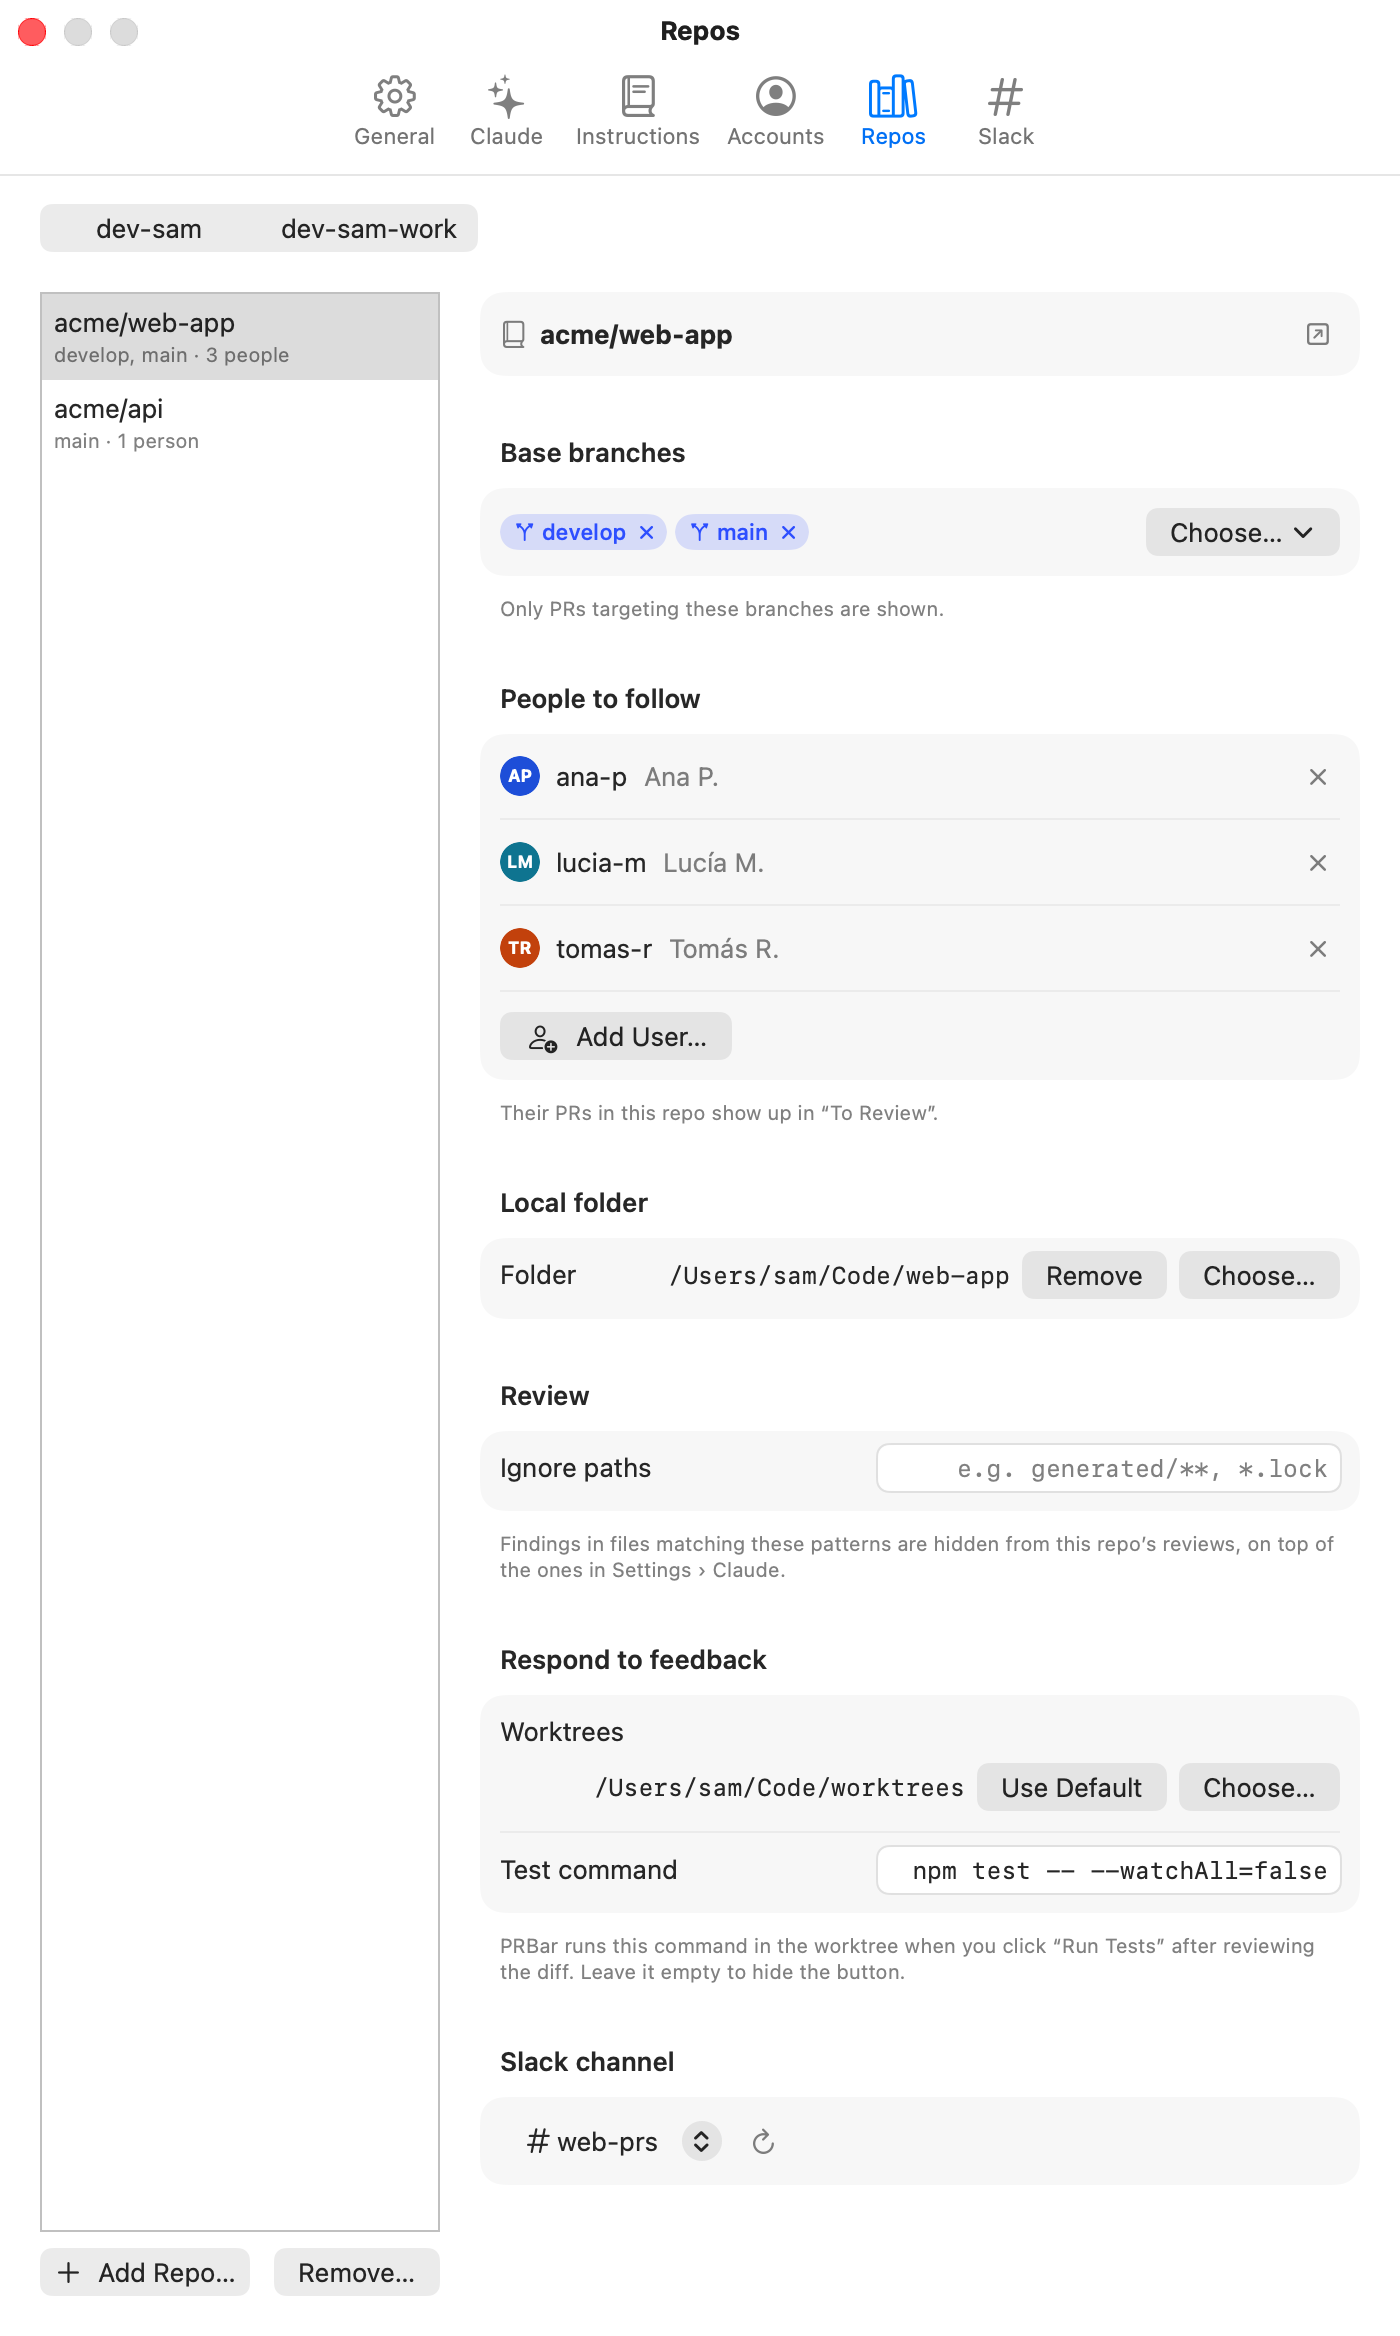
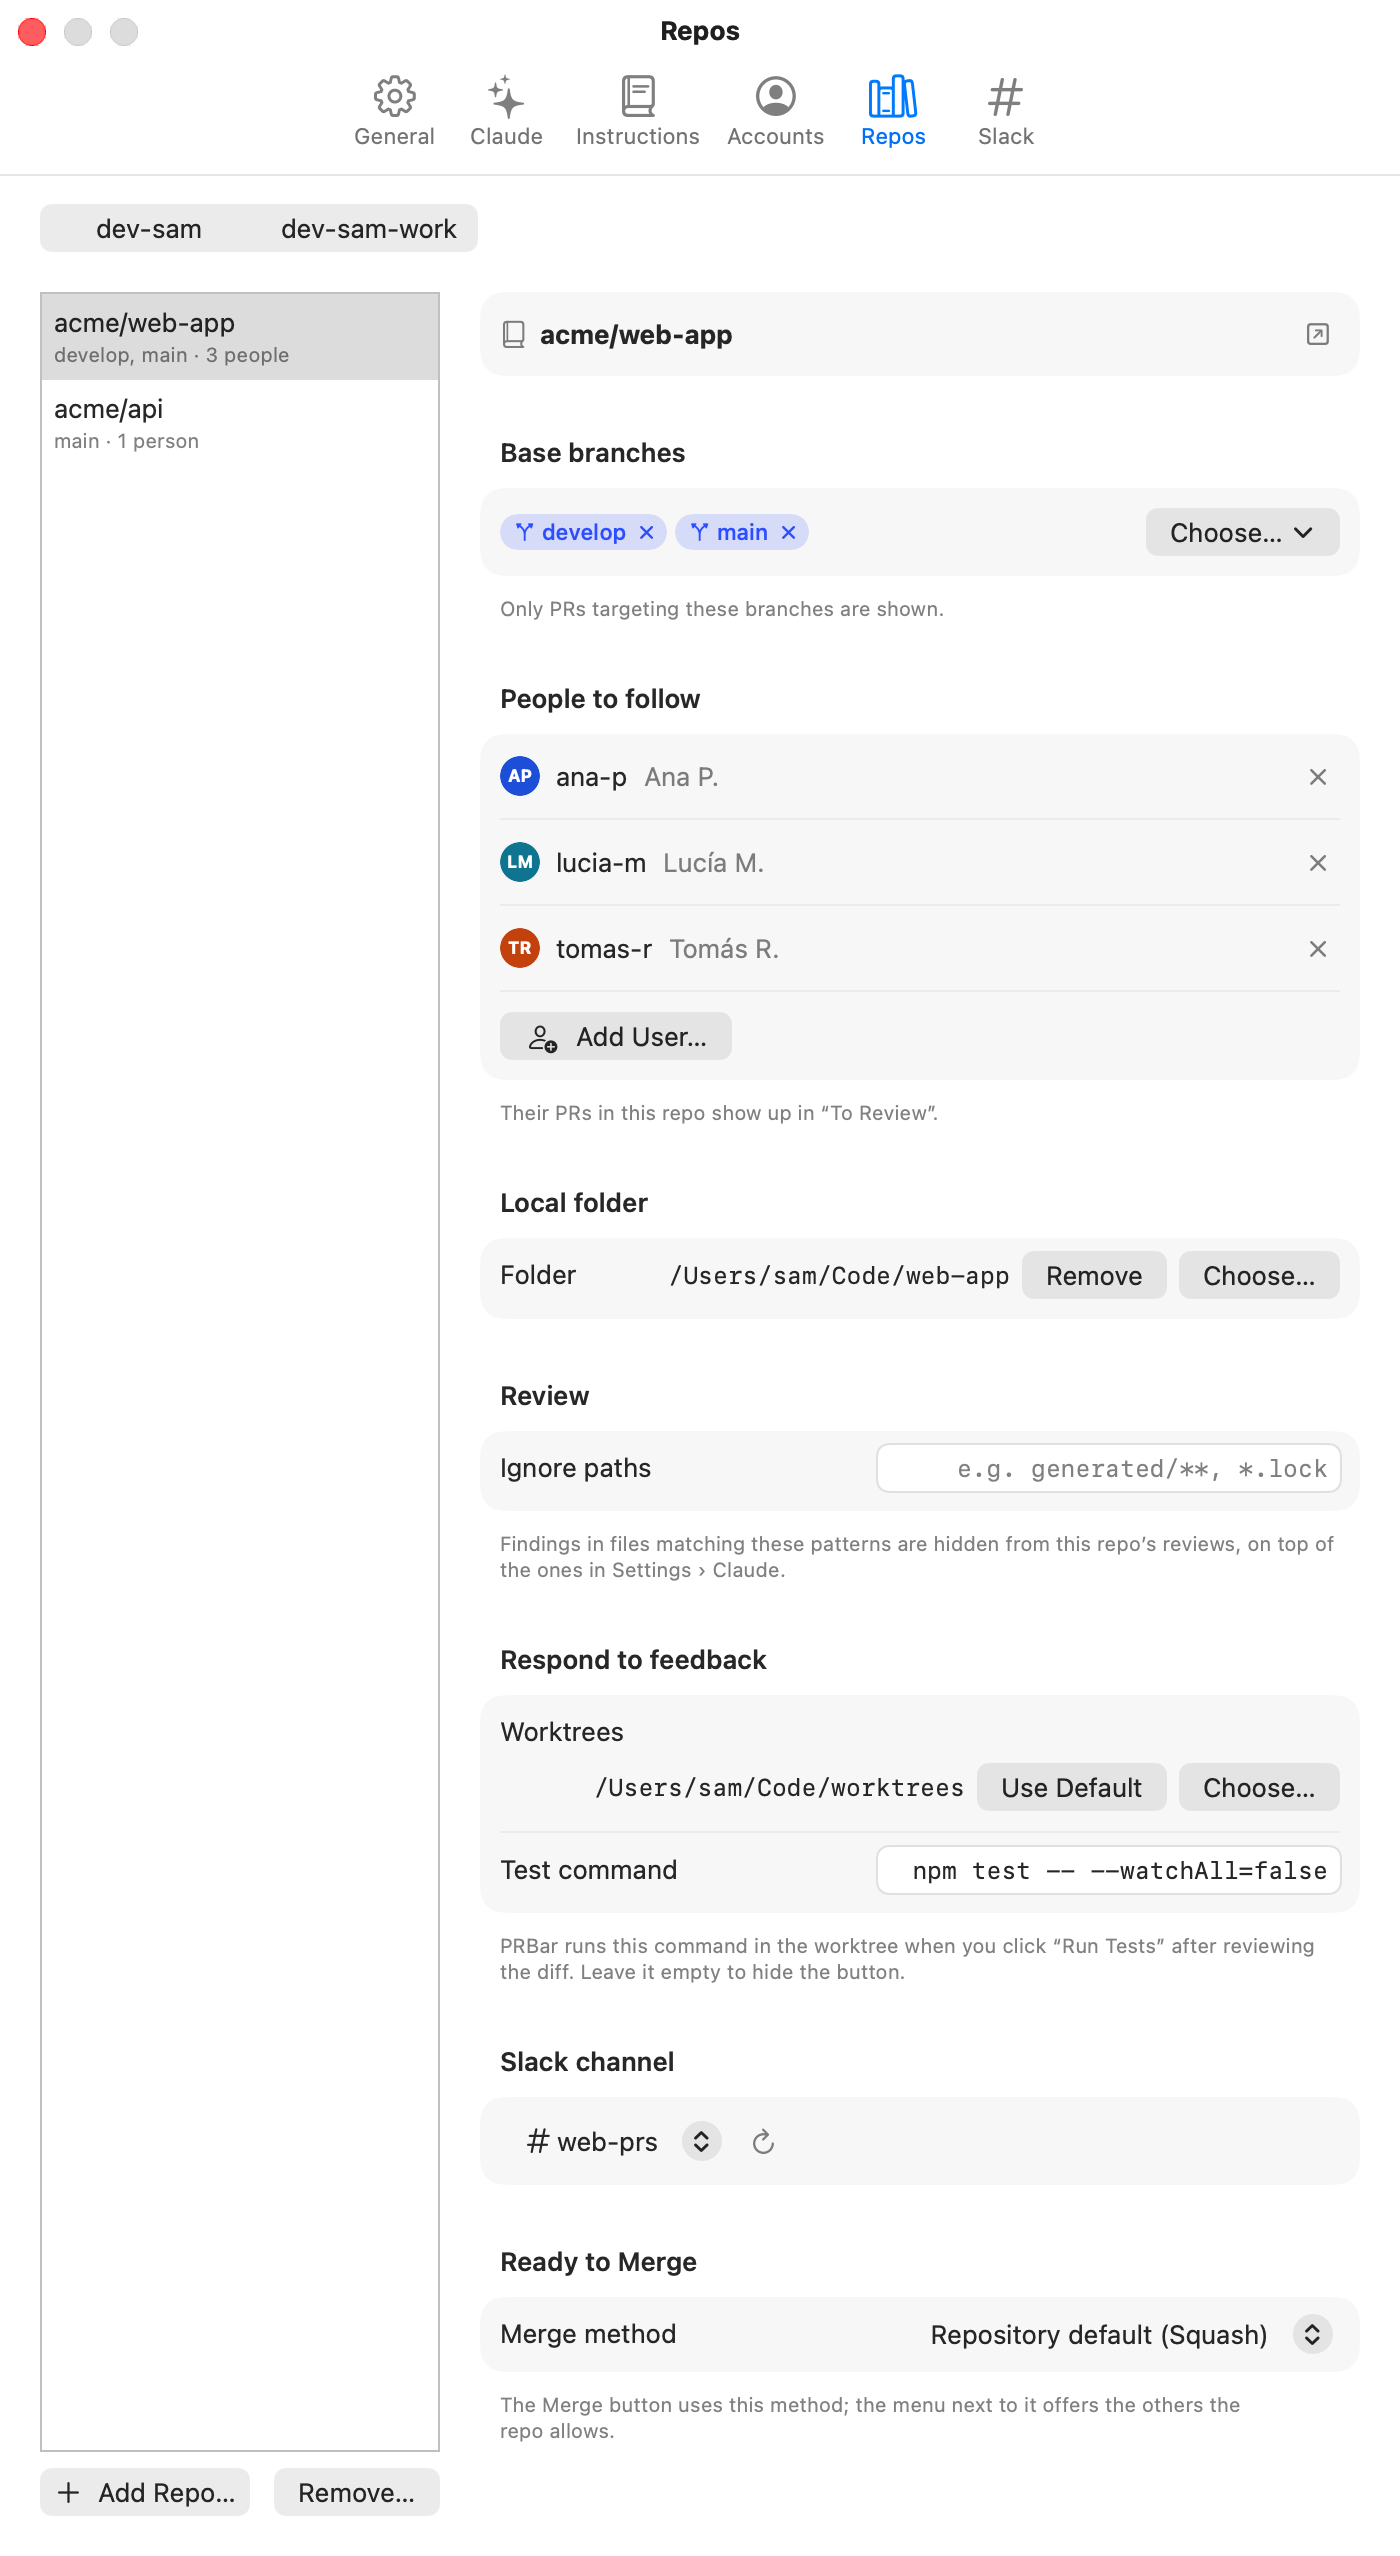
feat(snapshots): capture Ready to Merge and the merge confirmation

diff --git a/Sources/PRBar/Snapshots/SnapshotFixtures.swift b/Sources/PRBar/Snapshots/SnapshotFixtures.swift
@@ -123,7 +123,8 @@ struct SnapshotFixtures {
     }
 
     var snapshot: Snapshot {
-        Snapshot(items: [rateLimiting, loginRedirect, reactQuery, csvExport] + others, fetchedAt: now.addingTimeInterval(-50))
+        Snapshot(items: [rateLimiting, loginRedirect, reactQuery, csvExport, idempotencyKeys, reportsDarkMode] + others,
+                 fetchedAt: now.addingTimeInterval(-50), repoMergeSettings: Self.mergeSettings)
     }
 
     /// Nothing actionable: only "Other".
@@ -512,4 +513,57 @@ extension SnapshotFixtures {
         """,
         url: URL(string: "https://github.com/FedericoCharbonnier/PRBar/releases/tag/v1.3.0")!, publishedAt: nil
     )
+}
+
+// MARK: - Ready to Merge (spec F)
+
+extension SnapshotFixtures {
+    /// Ready to Merge: aprobado, checks pasando; Merge habilitado (squash por defecto) y la PR del diálogo.
+    var idempotencyKeys: ClassifiedPR {
+        readyToMerge(
+            item(Self.api, 322, "Add idempotency keys to payment retries", author: Self.personal, base: "main",
+                 head: "feat/idempotency-keys", ci: .success, adds: 96, dels: 14, updated: -30, category: .readyToMerge,
+                 account: Self.personal, lastCommit: -60 * 3,
+                 reviews: [PRReview(author: "tomas-r", isBot: false, state: .approved, submittedAt: date(minutes: -40))]),
+            status: .clean, commits: 3
+        )
+    }
+
+    /// Ready to Merge pero bloqueado: un check requerido todavía corre.
+    var reportsDarkMode: ClassifiedPR {
+        readyToMerge(
+            item(Self.webApp, 488, "Dark mode for the reports page", author: Self.personal, base: "develop",
+                 head: "feat/reports-dark-mode", ci: .pending, adds: 241, dels: 87, updated: -15, category: .readyToMerge,
+                 account: Self.personal, lastCommit: -60,
+                 reviews: [PRReview(author: "lucia-m", isBot: false, state: .approved, submittedAt: date(minutes: -20))]),
+            status: .blocked, commits: 7
+        )
+    }
+
+    /// Lo que GitHub dice de cada repo para la cuenta personal.
+    static var mergeSettings: [String: RepoMergeSettings] {
+        [
+            Snapshot.scope(account: personal, repo: api): RepoMergeSettings(
+                squashAllowed: true, mergeCommitAllowed: true, rebaseAllowed: false, viewerDefault: .squash,
+                deleteBranchOnMerge: true, viewerPermission: "WRITE"),
+            Snapshot.scope(account: personal, repo: webApp): RepoMergeSettings(
+                squashAllowed: true, mergeCommitAllowed: false, rebaseAllowed: true, viewerDefault: .squash,
+                deleteBranchOnMerge: false, viewerPermission: "ADMIN"),
+        ]
+    }
+
+    /// `base` aprobado y con datos de merge.
+    private func readyToMerge(_ base: ClassifiedPR, status: MergeStateStatus, commits: Int) -> ClassifiedPR {
+        let pr = base.pr
+        let approved = PullRequest(
+            repo: pr.repo, number: pr.number, title: pr.title, url: pr.url, isDraft: pr.isDraft, author: pr.author,
+            authorAvatarURL: pr.authorAvatarURL, baseRef: pr.baseRef, headRef: pr.headRef, headOid: pr.headOid,
+            additions: pr.additions, deletions: pr.deletions, createdAt: pr.createdAt, updatedAt: pr.updatedAt,
+            lastCommitAt: pr.lastCommitAt, ciState: pr.ciState, reviewDecision: .approved, reviews: pr.reviews,
+            comments: pr.comments, requestedReviewers: pr.requestedReviewers,
+            merge: PRMergeState(nodeID: "PR_\(pr.number)", mergeable: .mergeable, status: status, viewerCanUpdate: true,
+                                commitCount: commits)
+        )
+        return ClassifiedPR(pr: approved, category: .readyToMerge, account: base.account)
+    }
 }

diff --git a/Sources/PRBar/Snapshots/SnapshotMode.swift b/Sources/PRBar/Snapshots/SnapshotMode.swift
@@ -86,6 +86,7 @@ private final class SnapshotSession {
 
         try await reviewWindows(model: main)
         try await respondWindows(model: main)
+        try await mergeConfirmation(model: main)
         try await history()
         try await settings()
         try await notification()
@@ -263,6 +264,26 @@ private final class SnapshotSession {
         }
     }
 
+    /// The confirmation before merging (spec F.3), as `WindowPresenter` shows it: titled, fixed size.
+    private func mergeConfirmation(model: AppModel) async throws {
+        let item = fixtures.idempotencyKeys
+        let merge = model.mergeOptions(item)
+        for appearance in options.appearances {
+            let view = MergeConfirmView(
+                item: item, methods: merge.methods, initialMethod: merge.defaultMethod ?? .squash,
+                note: merge.availability.note, deletesBranch: true, onMerge: { _ in }, onCancel: {}
+            )
+            let controller = NSHostingController(rootView: view.environment(\.controlActiveState, .key))
+            let window = SnapshotRenderer.makeWindow(
+                controller: controller, size: MergeConfirmView.size, style: [.titled, .closable],
+                title: "Merge Pull Request", appearance: SnapshotRenderer.appearance(appearance)
+            )
+            window.setContentSize(MergeConfirmView.size)
+            await SnapshotRenderer.settle(window)
+            try write(SnapshotRenderer.capture(window, includeFrame: true, cornerRadius: 10), "merge-confirm", appearance)
+        }
+    }
+
     private func history() async throws {
         let model = try makeModel("history", snapshot: fixtures.snapshot)
         for record in fixtures.historyReviews { try model.history.save(record) }
@@ -284,11 +305,11 @@ private final class SnapshotSession {
         let model = try makeModel("settings", snapshot: fixtures.snapshot)
         model.updates.applySnapshotState(available: SnapshotFixtures.updateRelease)
         let sizes: [SettingsWindow.Tab: NSSize] = [
-            .general: NSSize(width: 700, height: 880),
+            .general: NSSize(width: 700, height: 1010),
             .claude: NSSize(width: 700, height: 2100),
             .instructions: NSSize(width: 700, height: 1330),
-            .repos: NSSize(width: 700, height: 1080),
-            .slack: NSSize(width: 700, height: 1180),
+            .repos: NSSize(width: 700, height: 1190),
+            .slack: NSSize(width: 700, height: 1260),
         ]
         for tab in SettingsWindow.Tab.allCases {
             for appearance in options.appearances {

diff --git a/docs/screenshots/README.md b/docs/screenshots/README.md
@@ -20,7 +20,7 @@ Every screen comes in `-light` and `-dark`, at 2x:
 | File | What it shows |
 | --- | --- |
 | `menubar-icon` | The menu bar icon with a badge of 5, on a menu-bar-like strip |
-| `popover` | The popover: To Review (one idle, one "Reviewing…"), Updated Since My Review (ready, 4 comments), My PRs with Feedback (Changes requested, Respond), Other collapsed |
+| `popover` | The popover: To Review (one idle, one "Reviewing…"), Updated Since My Review (ready, 4 comments), My PRs with Feedback (Changes requested, Respond), Ready to Merge (one ready, one blocked), Other collapsed |
 | `popover-empty` | The "All Caught Up" state |
 | `review-window` | The Review window: Claude's summary, 3 kept findings (one expanded for editing), 2 discarded with reasons, a general comment, comments posted in Spanish |
 | `review-published` | The Review window after posting, with a rule suggestion from the findings you usually discard |
@@ -29,6 +29,7 @@ Every screen comes in `-light` and `-dark`, at 2x:
 | `respond-choose` | Respond: choosing what to do with 3 comments (fix, reply, fix + reply) |
 | `respond-ready-to-push` | Respond: 2 commits, the diff, the `package.json` warning, tests passed, Push and Reply |
 | `respond-chat` | Respond, ready to push, with the chat open: a reply drafted for a reviewer and a change to the fixes’ code |
+| `merge-confirm` | The confirmation before merging: PR, commits, merge method popup and "Squash and Merge" |
 | `history` | The History window with 6 reviews and responses, one selected |
 | `settings-general`, `settings-claude`, `settings-instructions`, `settings-accounts`, `settings-repos`, `settings-slack` | Each Settings tab, configured |
 | `notification` | **An illustration** of the "Review Ready" notification, not a capture of the real macOS banner |
